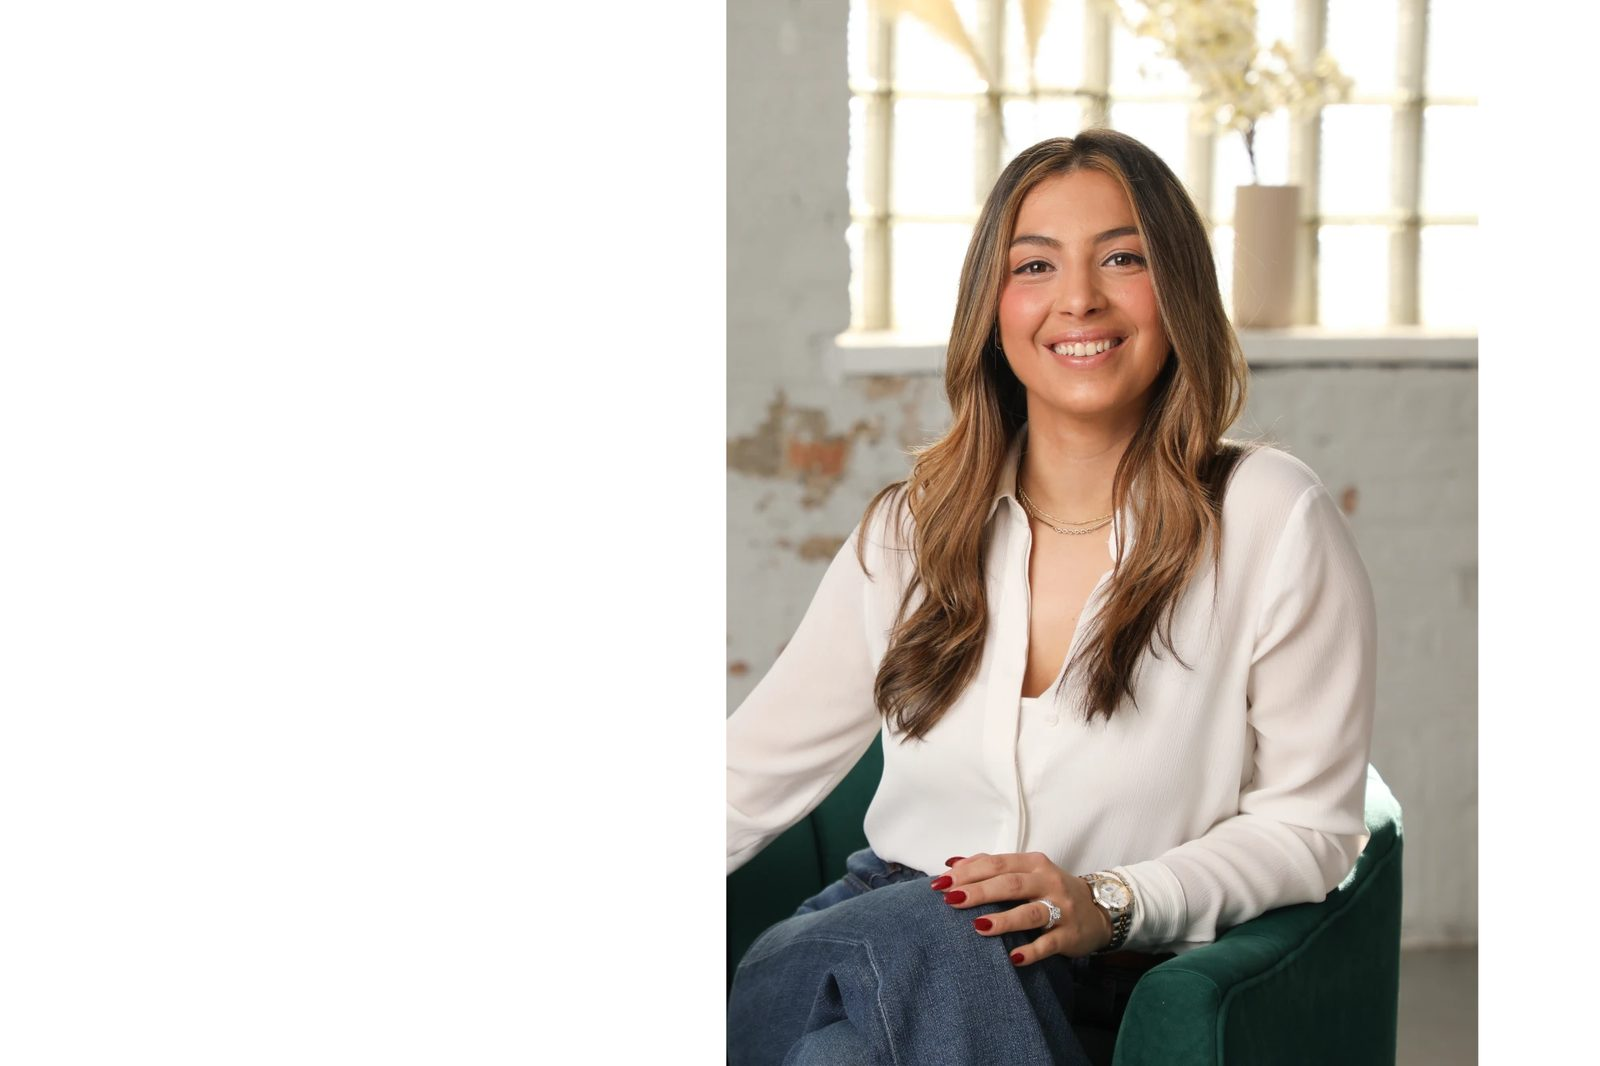
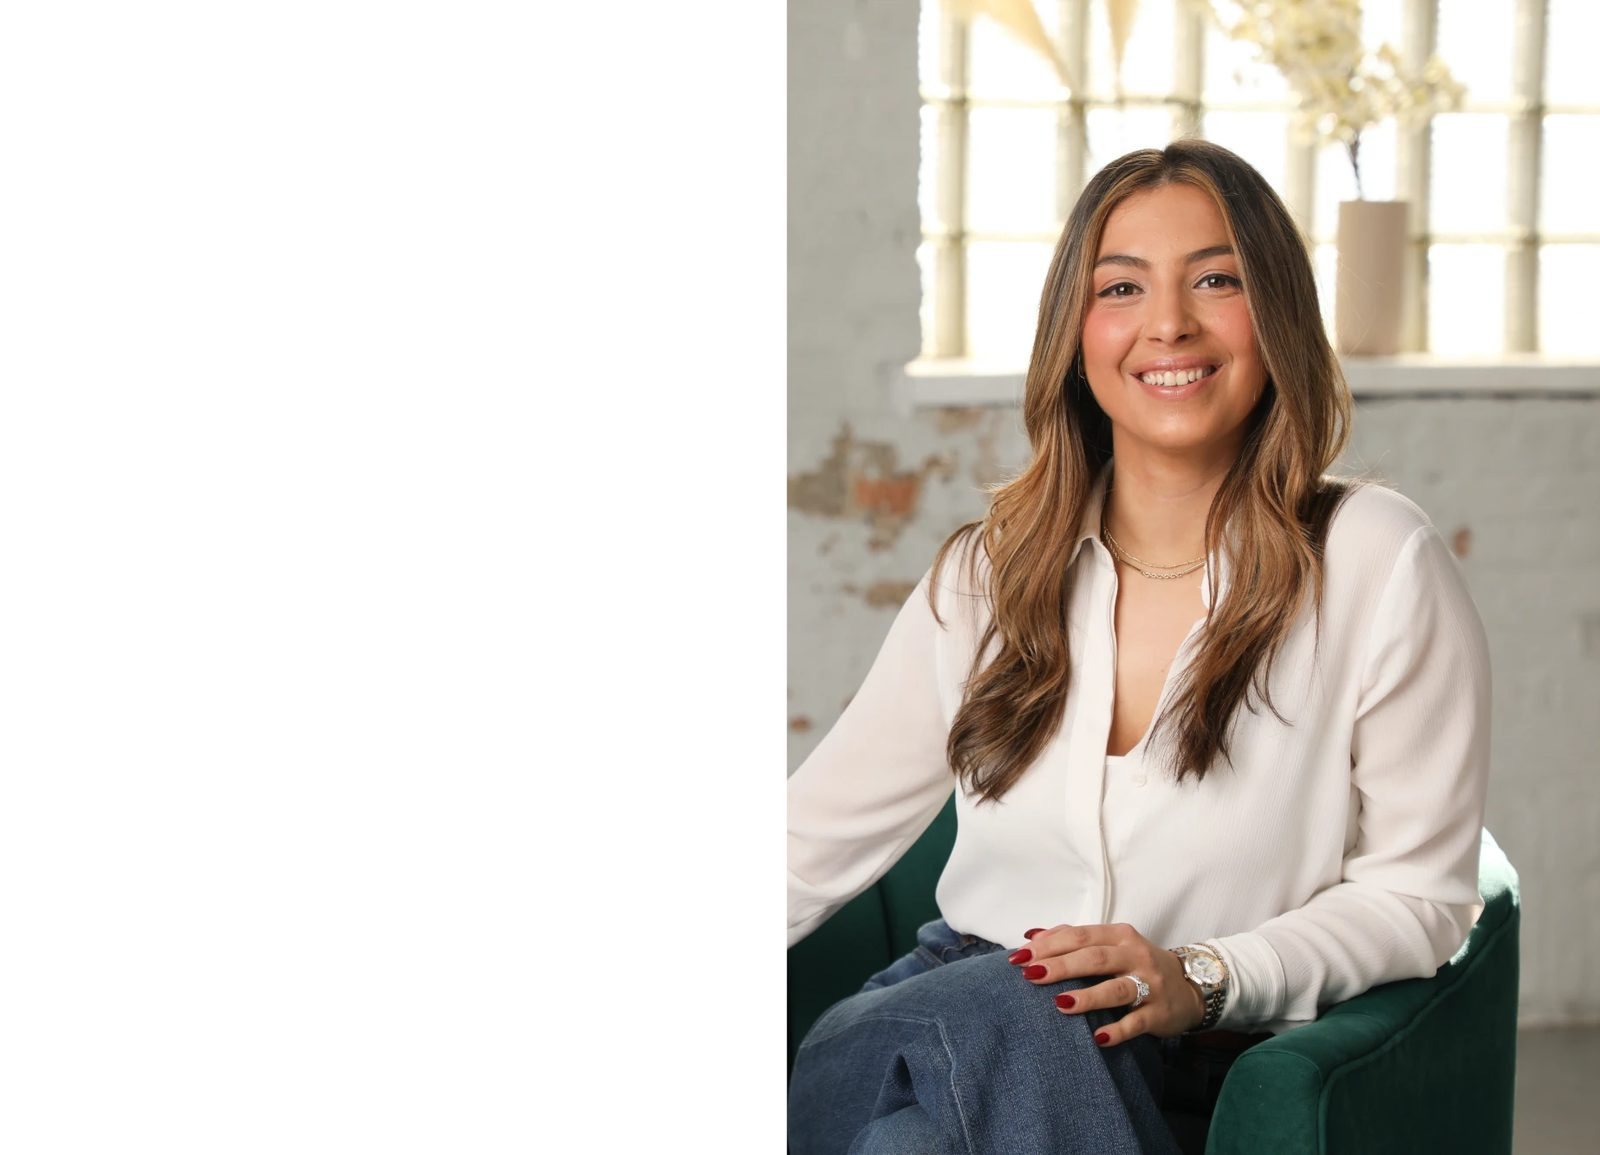
Break up the Home page rhythm
- Hero collage previews The Reset Co. and Armstrong, so Home shows four projects without repeats
- Oversized right-aligned statement after the client names
- Recent work as an uneven spread: one large card, one smaller card set lower
- Meet Anna runs edge to edge; the wide headshot is trimmed so the photo reaches the right edge
- Services heading pinned on the left while the list scrolls on the right

Claude-Session: https://claude.ai/code/session_01LY55wgDyqVpZvRvMRjHqt6

diff --git a/assets/css/main.css b/assets/css/main.css
@@ -181,7 +181,7 @@ section{padding:clamp(4.5rem,10vw,8rem) 0}
 .meet h2{font-size:clamp(2rem,2.6vw + 1rem,3rem); line-height:1.1; letter-spacing:-.02em; margin:0 0 1rem}
 .meet p{color:var(--muted); margin:0 0 1.5rem; max-width:32em}
 @media (max-width:900px){
-  .meet-card img{aspect-ratio:7/10; object-fit:cover; object-position:86% center}
+  .meet-card img{aspect-ratio:7/10; object-fit:cover; object-position:100% center}
   .meet-copy{position:static; width:auto}
 }
 
@@ -344,4 +344,30 @@ textarea{min-height:150px; resize:vertical}
   .js [data-reveal]{opacity:1; transform:none}
   .project-mat .browser{transform:none}
   .project:hover .project-mat .shot img{transform:none}
+}
+
+/* Editorial statement */
+.statement{padding:clamp(4rem,10vw,8rem) 0}
+.statement p{font-family:var(--display); font-size:clamp(2.2rem,5vw + .5rem,5rem); line-height:1.05; letter-spacing:-.02em; max-width:17ch; margin:0 0 0 auto; text-align:right}
+
+/* Recent work: one large card, one smaller card set lower */
+.work-spread .projects{grid-template-columns:minmax(0,7fr) minmax(0,5fr); grid-auto-rows:auto; align-items:start}
+.work-spread .project:nth-child(2){margin-top:clamp(3rem,8vw,7rem)}
+
+/* Meet Anna runs edge to edge */
+.meet .wrap{max-width:none; padding:0}
+@media (min-width:901px){ .meet-copy{padding-left:max(clamp(1.25rem,4vw,3rem), calc((100% - 1240px) / 2 + clamp(1.25rem,4vw,3rem)))} }
+.meet-card{border-radius:0; border-left:0; border-right:0}
+
+/* Services: heading pinned on the left, list on the right */
+.svc-split .wrap{display:grid; grid-template-columns:minmax(0,4fr) minmax(0,7fr); gap:clamp(2rem,5vw,5rem); align-items:start}
+.svc-split .sec-head{position:sticky; top:110px; margin:0}
+
+@media (min-width:861px){
+  .meet-card img{aspect-ratio:21/9; object-fit:cover; object-position:60% 20%}
+}
+@media (max-width:860px){
+  .work-spread .projects,.svc-split .wrap{grid-template-columns:1fr}
+  .work-spread .project:nth-child(2){margin-top:0}
+  .svc-split .sec-head{position:static}
 }

diff --git a/index.html b/index.html
@@ -13,7 +13,7 @@ layout: default
     </div>
 
     <div class="collage" aria-hidden="true">
-      {% for p in site.data.projects limit: 2 %}
+      {% for p in site.data.projects offset: 2 limit: 2 %}
       <div class="browser collage-{{ forloop.index }}">
         <div class="bar"><i></i><i></i><i></i><span>{{ p.url_label | escape }}</span></div>
         <div class="shot"><img src="{{ p.image | relative_url }}" alt="" width="1800" height="852"></div>
@@ -38,7 +38,13 @@ layout: default
   </div>
 </div>
 
-<section id="work">
+<section class="statement">
+  <div class="wrap">
+    <p>I love creating something where there was <em>nothing before.</em></p>
+  </div>
+</section>
+
+<section id="work" class="work-spread">
   <div class="wrap">
     <div class="sec-head sec-head-row">
       <div>
@@ -54,7 +60,7 @@ layout: default
 <section class="meet">
   <div class="wrap">
     <div class="meet-card">
-      <img src="{{ '/assets/img/headshot-wide.jpg' | relative_url }}" alt="Anna Andrews seated in a green armchair in a bright studio" width="1600" height="1066" loading="lazy">
+      <img src="{{ '/assets/img/headshot-wide.jpg' | relative_url }}" alt="Anna Andrews seated in a green armchair in a bright studio" width="1600" height="1155" loading="lazy">
       <div class="meet-copy">
         <h2>A place for what you've built to <em>come to life.</em></h2>
         <p>I started in tech with a computer science degree, spent years in real estate development, and built a Greek dance program, a festival revival, and a business of my own along the way. Now I build websites for people who have something great to offer.</p>
@@ -74,7 +80,7 @@ layout: default
 </section>
 {% endif %}
 
-<section class="svc-teaser">
+<section class="svc-teaser svc-split">
   <div class="wrap">
     <div class="sec-head sec-head-row">
       <h2>What I can <em>do for you</em></h2>
